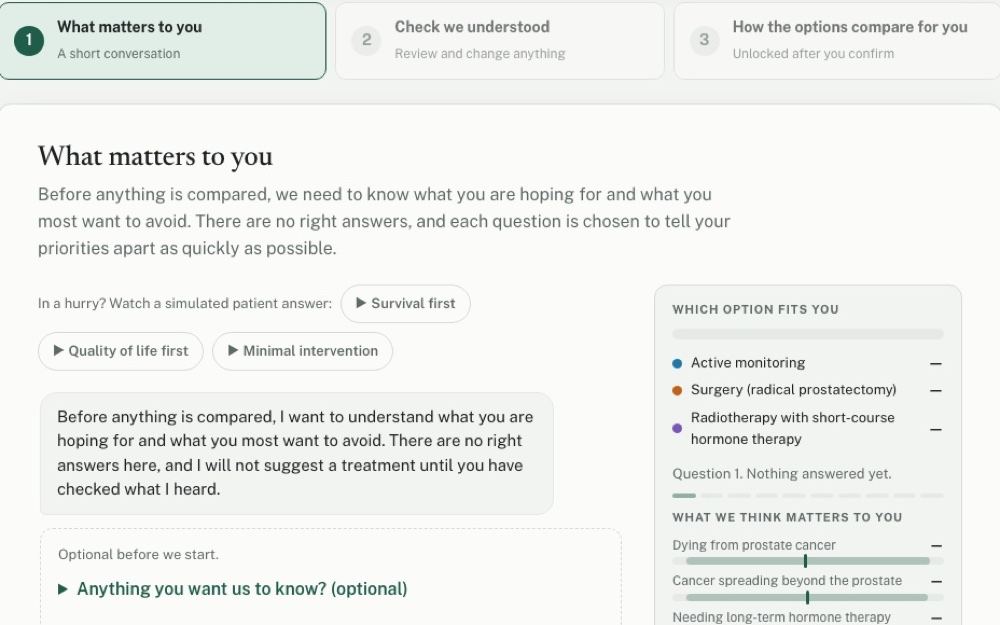
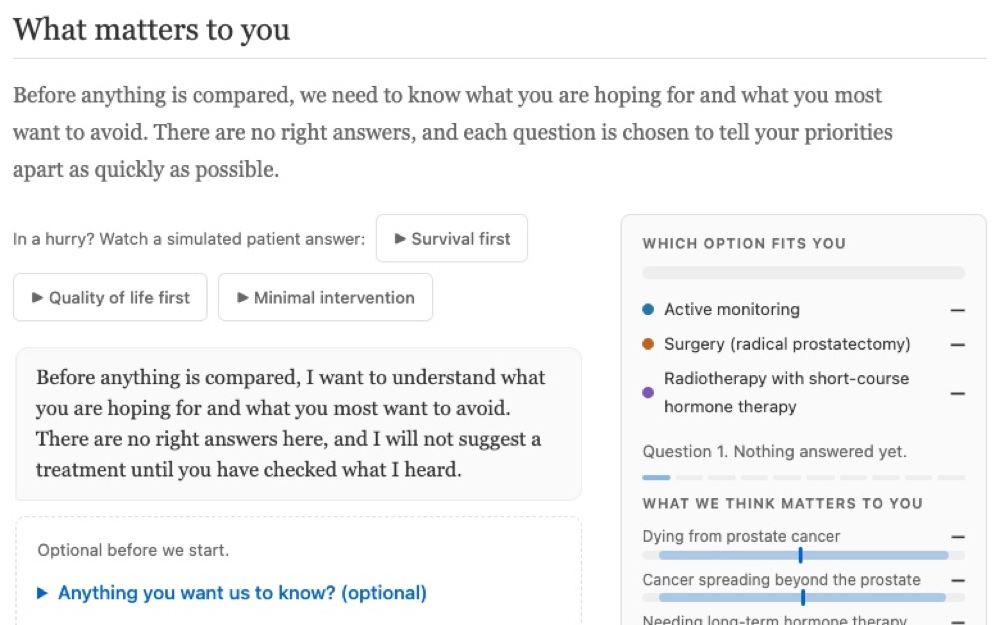
Restyle the Preference-First demo to match the site
Add the shared sidebar and a page title, and load a site.css that sets the
demo in Georgia with the site's blue, grey rules and flat sections. Keep the
page light in dark mode like the other pages, and refresh the Projects
thumbnail to show the new look.

diff --git a/preference-first/site.css b/preference-first/site.css
@@ -1,0 +1,242 @@
+/* Site skin for the Preference-First demo. index.html loads this after the demo's own styles,
+   so these rules restyle the demo to match the rest of the site: a white page, Georgia text,
+   #0066cc for links and selected states, thin grey rules, no shadows, and the shared sidebar.
+   The page stays light even when the system is in dark mode, like every other page here. */
+
+:root {
+    color-scheme: light;
+    --ground: #fff;
+    --surface: #fff;
+    --panel: #fafafa;
+    --ink: #333;
+    --muted: #666;
+    --rule: #e0e0e0;
+    --rule-soft: #eee;
+    --accent: #0066cc;
+    --accent-ink: #fff;
+    --accent-soft: #eef4fb;
+    --warn: #9a5b12;
+    --warn-soft: #fbf4ea;
+    --shadow: none;
+    --display: Georgia, 'Times New Roman', serif;
+    --body: Georgia, 'Times New Roman', serif;
+    --ui: -apple-system, BlinkMacSystemFont, 'Segoe UI', sans-serif;
+}
+
+body {
+    padding: 40px 20px;
+    font-size: 17px;
+    line-height: 1.7;
+    -webkit-font-smoothing: auto;
+}
+
+h1, h2, h3 {
+    font-weight: normal;
+    letter-spacing: 0;
+}
+
+.wrap {
+    max-width: 760px;
+    padding: 0 0 64px;
+    gap: 30px;
+}
+
+/* Page header, set like the title on Projects and Research. The top-ranked option card also
+   carries a "top" class, so these rules name the header element. */
+header.top {
+    display: block;
+}
+
+.page-title {
+    font-size: 36px;
+    line-height: 1.25;
+    margin-bottom: 14px;
+}
+
+header.top .meta {
+    font-size: 16px;
+    line-height: 1.7;
+    color: #555;
+}
+
+/* Sections sit flat on the page under a ruled heading instead of in shadowed boxes. */
+.card {
+    background: none;
+    border: 0;
+    border-radius: 0;
+    padding: 0;
+    box-shadow: none;
+}
+
+.intro h1 {
+    font-size: 26px;
+}
+
+.stage h2 {
+    font-size: 24px;
+    padding-bottom: 8px;
+    border-bottom: 1px solid var(--rule);
+}
+
+.stage .lede {
+    margin-top: 14px;
+}
+
+/* Interface text uses the same sans as the dates and links on the Projects page. */
+button, input, select, textarea, pre,
+.btn, .step, .tabs, .playrow, .hint, .progress, .error, .belief, .chip, .msg .kick,
+.studybar, .demobar, .rates, .contrib, .assume, .base, .fit, .sources, .disclaimer,
+.q .note, .limits, .choices label, .radios label, .survey .scale label, .checks label,
+.whatif, .legend, summary {
+    font-family: var(--ui);
+}
+
+summary {
+    font-size: 15px;
+    font-weight: 500;
+}
+
+.step {
+    border-radius: 6px;
+}
+
+.step b {
+    font-weight: 600;
+}
+
+.step .n {
+    font-weight: 600;
+}
+
+.btn {
+    border-radius: 6px;
+    font-size: 15px;
+    font-weight: 500;
+}
+
+.btn:not(.primary):hover:not(:disabled) {
+    border-color: var(--accent);
+    color: var(--accent);
+}
+
+.tabs {
+    border-radius: 6px;
+}
+
+.tabs button {
+    border-radius: 4px;
+    font-weight: 500;
+}
+
+.tabs button[aria-selected="true"] {
+    background: var(--accent-soft);
+    color: var(--accent);
+}
+
+/* The conversation. */
+.msg {
+    font-size: 16px;
+    border-radius: 10px;
+}
+
+.msg.ai {
+    background: var(--panel);
+    border-color: var(--rule-soft);
+    border-bottom-left-radius: 3px;
+}
+
+.msg.me {
+    font-family: var(--ui);
+    font-size: 15px;
+    font-weight: 500;
+    border-bottom-right-radius: 3px;
+}
+
+.qcard .ans button,
+.playrow button {
+    border-radius: 6px;
+    font-weight: 500;
+}
+
+.qcard .ans button {
+    color: var(--accent);
+}
+
+.qcard .ans button.skip {
+    color: var(--muted);
+}
+
+.setup {
+    border-radius: 8px;
+}
+
+.belief {
+    background: var(--panel);
+    border-radius: 8px;
+}
+
+.belief h3 {
+    font-family: var(--ui);
+    font-weight: 600;
+}
+
+.radios label,
+.choices label,
+.survey .scale label {
+    border-radius: 6px;
+}
+
+.rcard,
+.opt,
+.framing,
+.whatif,
+.survey {
+    border-radius: 8px;
+}
+
+.survey {
+    background: var(--panel);
+}
+
+.rcard .pos {
+    font-weight: normal;
+}
+
+.callout,
+.demobar {
+    border-radius: 4px;
+}
+
+.quotes blockquote {
+    font-size: 17px;
+}
+
+a {
+    color: var(--accent);
+}
+
+@media (max-width: 640px) {
+    .wrap {
+        padding: 0 0 40px;
+        gap: 24px;
+    }
+}
+
+@media (max-width: 600px) {
+    body {
+        padding: 20px 15px;
+        font-size: 16px;
+    }
+
+    .page-title {
+        font-size: 28px;
+    }
+
+    .intro h1 {
+        font-size: 22px;
+    }
+
+    .stage h2 {
+        font-size: 21px;
+    }
+}

diff --git a/preference-first/index.html b/preference-first/index.html
@@ -1,9 +1,12 @@
+---
+---
 <!doctype html>
+<html lang="en" data-theme="light">
 <meta charset="utf-8">
 <meta name="viewport" content="width=device-width, initial-scale=1">
-<title>Preference First</title>
-<link rel="preconnect" href="https://fonts.googleapis.com">
-<link rel="stylesheet" href="https://fonts.googleapis.com/css2?family=Newsreader:opsz,wght@6..72,400;6..72,500;6..72,600&family=Public+Sans:ital,wght@0,400;0,600;0,700;1,400&display=swap">
+<title>Preference-First Medical AI - Sonnet Xu</title>
+<link rel="stylesheet" href="https://cdn.jsdelivr.net/npm/remixicon@4.9.1/fonts/remixicon.css">
+<link rel="stylesheet" href="/sidebar.css">
 <style>
   :root {
     --ground: #F2F4F1; --surface: #FBFCFA; --ink: #1E2422; --muted: #5F6A66; --rule: #D5DBD6; --rule-soft: #E6EAE6;
@@ -250,11 +253,14 @@
   }
   @media (prefers-reduced-motion: no-preference) { .btn, .step, .tabs button { transition: background-color 120ms, border-color 120ms; } }
 </style>
+<link rel="stylesheet" href="/preference-first/site.css">
+
+{% include sidebar.html active="projects" %}
 
 <div class="wrap">
   <header class="top">
-    <div class="brand">Preference First <small>prototype</small></div>
-    <div class="meta">Your values first. Nothing is compared until you have said what matters to you and confirmed it.</div>
+    <h1 class="page-title">Preference-First Medical AI</h1>
+    <p class="meta">A research prototype for choosing a treatment for early prostate cancer. It asks what matters to you and has you confirm it before it compares any option, using results from the ProtecT trial. It is not medical advice.</p>
   </header>
   <div class="studybar" id="studybar" hidden></div>
 

diff --git a/README.md b/README.md
@@ -6,6 +6,6 @@ Books live in `_data/reading.yml`, split into `current`, `to_read`, `finished` a
 
 There is no Writing page for now, and the old `writing.html` and `blog.html` URLs redirect to the homepage. The old Compute page is gone too, and `compute/` redirects to Projects. Community (`community.html`) has no tab, and About links to it.
 
-Projects (`projects.html`) is a list with one row per project, each with a small 16:10 image from `photos/projects/` (1000x625 JPEGs), followed by Open Source repo cards. A comment above the list shows how to add a project. The `preference-first/` folder holds a copy of the Preference-First Medical AI demo, taken unchanged from `demo/index.html` in that project's repo, and has no front matter so GitHub Pages serves it as is.
+Projects (`projects.html`) is a list with one row per project, each with a small 16:10 image from `photos/projects/` (1000x625 JPEGs), followed by Open Source repo cards. A comment above the list shows how to add a project. The `preference-first/` folder holds the Preference-First Medical AI demo, copied from `demo/index.html` in that project's repo with four changes so it looks like the rest of the site. The copy gains the empty front matter, the sidebar include, `data-theme="light"` on `<html>`, and a link to `preference-first/site.css` after its own `<style>` block. It also swaps the demo's Google Fonts for the site's stylesheets and replaces its small header with a page title. The JavaScript is untouched. To update the demo, copy the new `demo/index.html` over this one and redo those changes. `site.css` holds every style override and does not need to change.
 
 Every page shares the sidebar in `_includes/sidebar.html`, styled by `sidebar.css`. Each page pulls it in with `{% include sidebar.html active="research" %}`, where `active` names the highlighted tab. The homepage bio sits in a `capture` block at the top of `index.html` and only shows on the homepage. Pages need the empty `---` front matter at the top so GitHub Pages runs the include.
